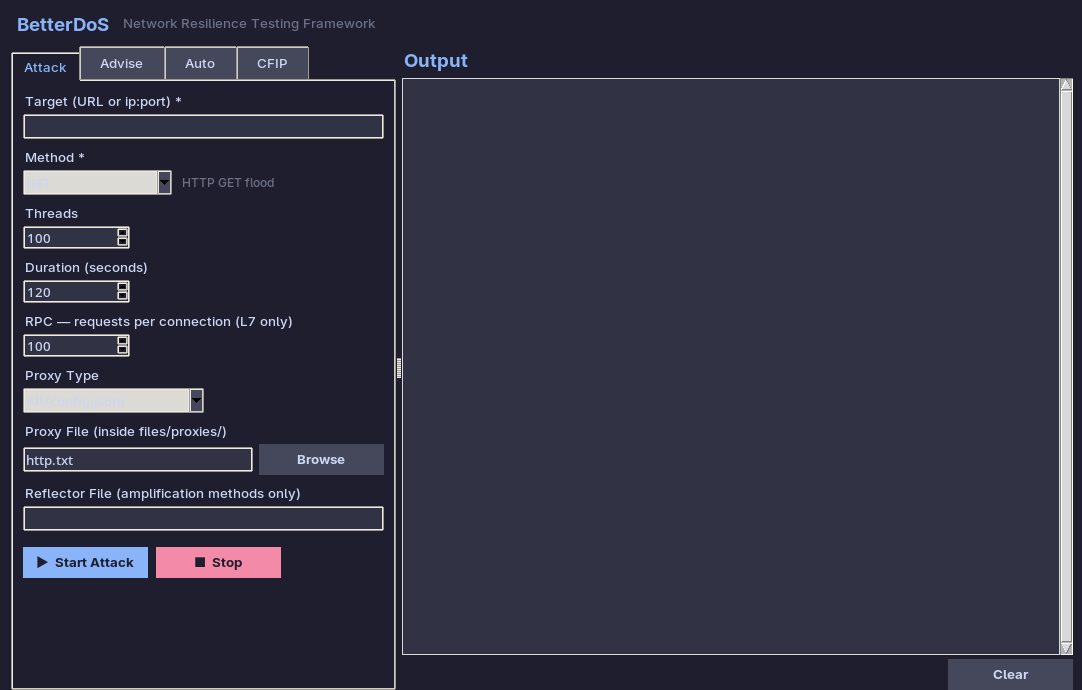
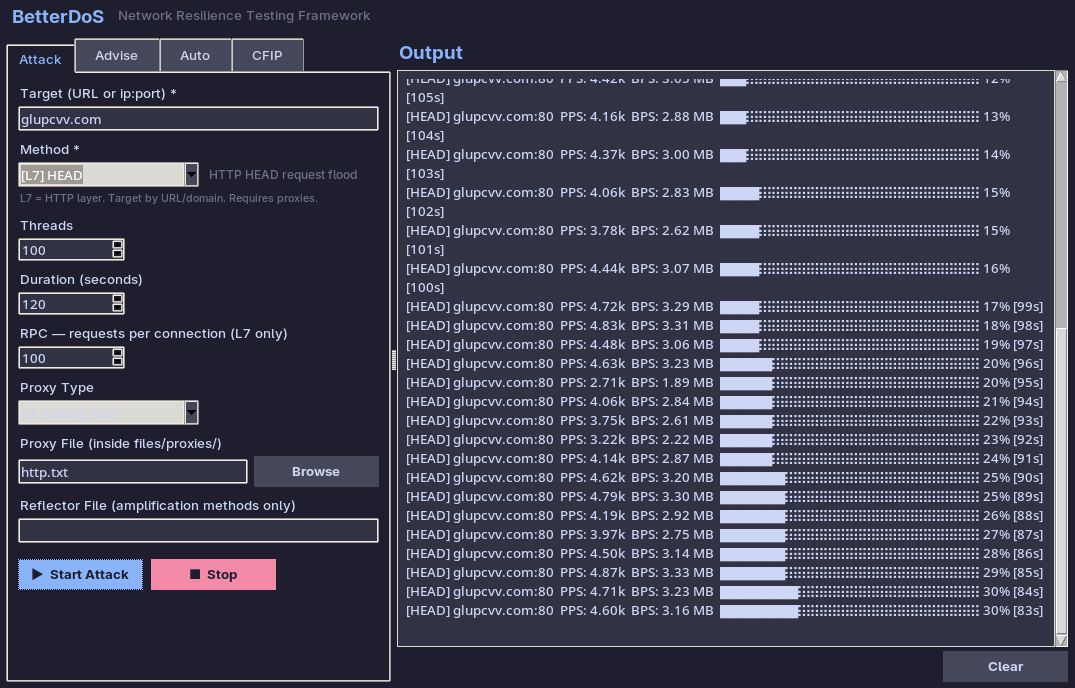
GUI: add L7/L4 labels to method dropdown, fix disabled button styling, fix URL parsing for bare domains

Changed region(s): [[0.0, 0.0, 1.0, 1.0]]

diff --git a/betterdos/gui.py b/betterdos/gui.py
@@ -88,9 +88,13 @@ class BetterDoSGUI:
                          borderwidth=0, padding=(12, 6))
         style.map("TButton", background=[("active", ACCENT)], foreground=[("active", BG)])
         style.configure("Accent.TButton", background=ACCENT, foreground=BG)
-        style.map("Accent.TButton", background=[("active", GREEN)], foreground=[("active", BG)])
+        style.map("Accent.TButton",
+                  background=[("disabled", SURFACE), ("active", GREEN)],
+                  foreground=[("disabled", FG_DIM), ("active", BG)])
         style.configure("Stop.TButton", background=RED, foreground=BG)
-        style.map("Stop.TButton", background=[("active", "#e06c75")], foreground=[("active", BG)])
+        style.map("Stop.TButton",
+                  background=[("disabled", SURFACE), ("active", "#e06c75")],
+                  foreground=[("disabled", FG_DIM), ("active", BG)])
         style.configure("TCombobox", fieldbackground=BG_INPUT, background=SURFACE,
                          foreground=FG, selectbackground=ACCENT, selectforeground=BG)
         style.configure("TEntry", fieldbackground=BG_INPUT, foreground=FG, insertcolor=FG)
